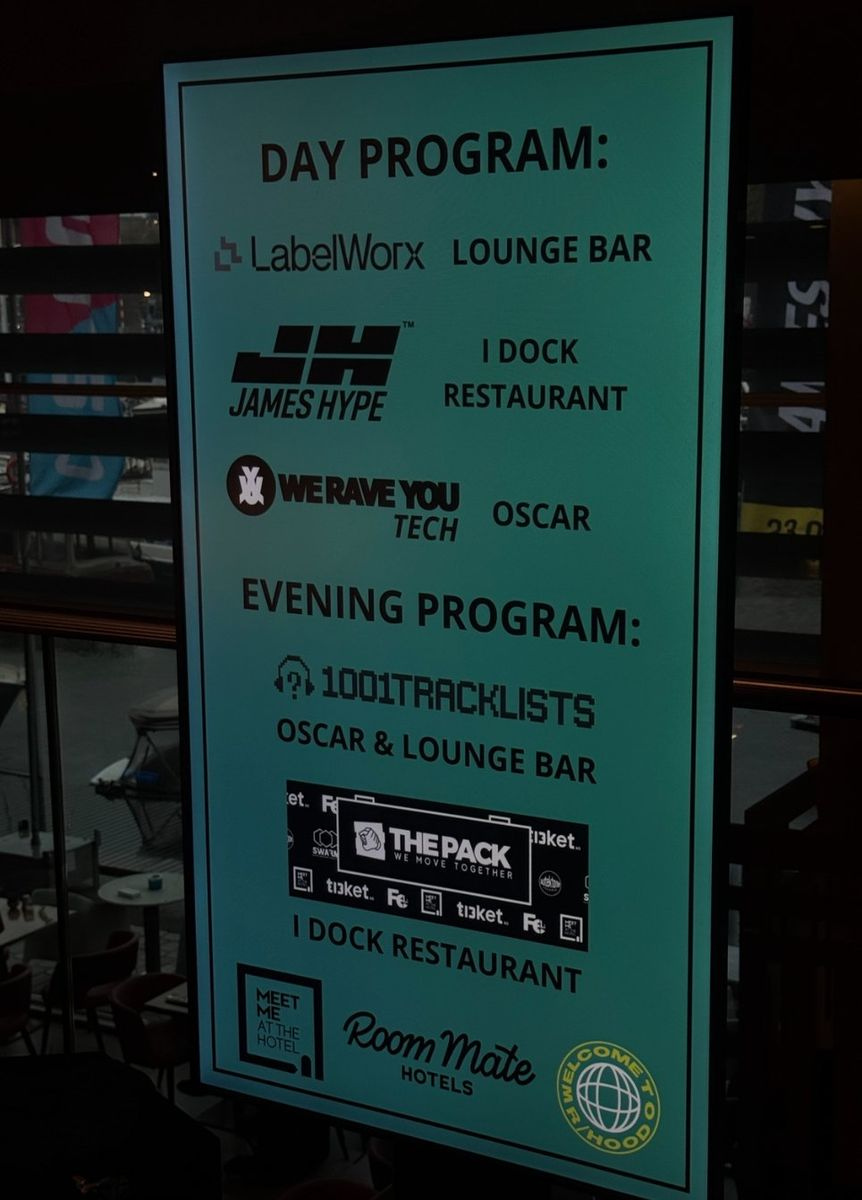
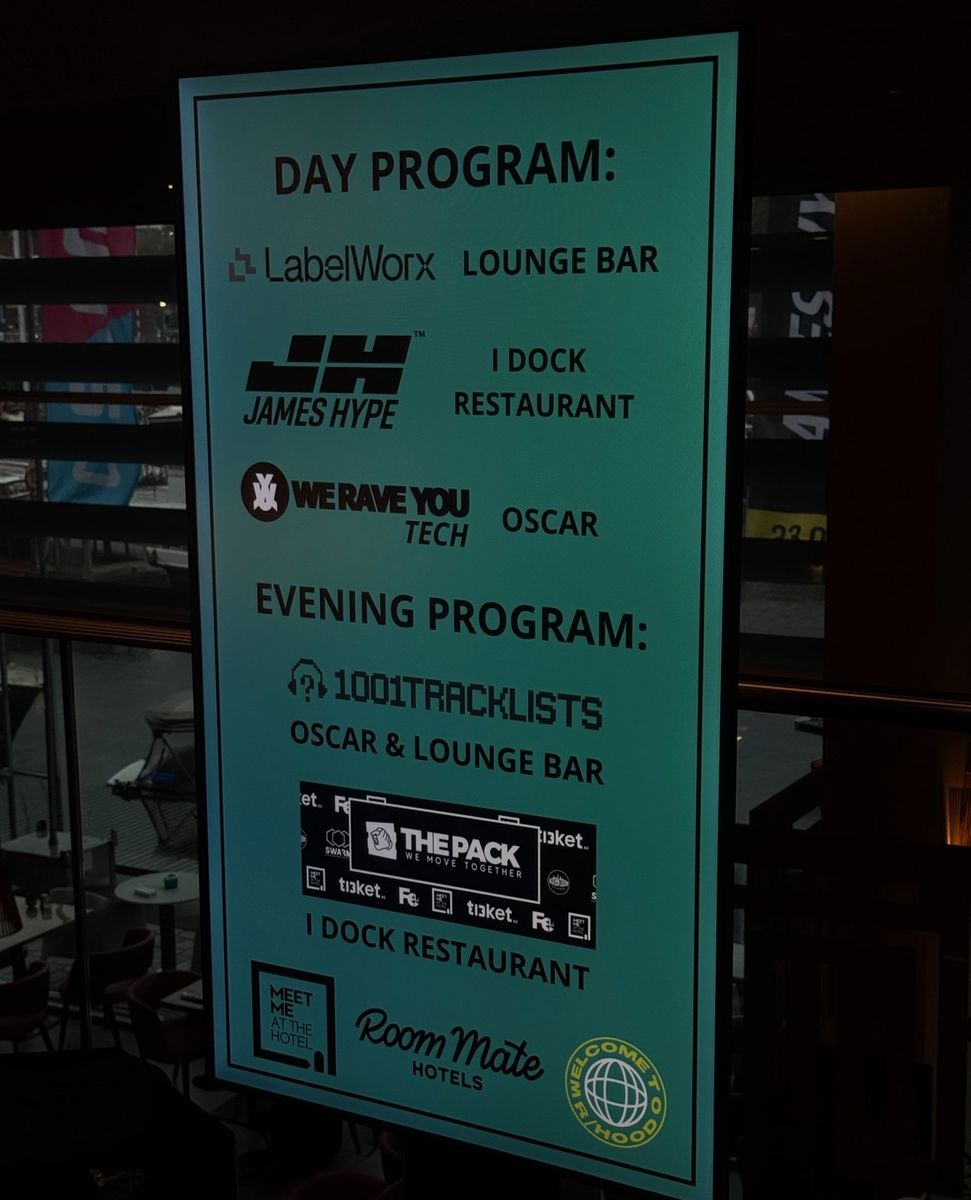
Add files via upload

diff --git a/program.html b/program.html
@@ -67,7 +67,7 @@ h4{font-size:clamp(16px,2vw,24px)}
 .tab-panel{display:none;padding:48px}
 .tab-panel.active{display:grid;grid-template-columns:1fr 1fr;gap:60px;align-items:start}
 .panel-img{position:relative;overflow:hidden}
-.panel-img img{width:100%;aspect-ratio:16/10;object-fit:cover;filter:brightness(.7) saturate(.8);display:block}
+.panel-img img{width:100%;aspect-ratio:16/10;object-fit:cover;object-position:center top;filter:brightness(.7) saturate(.8);display:block}
 .panel-img-overlay{position:absolute;inset:0;background:linear-gradient(135deg,rgba(77,168,160,.15) 0%,transparent 60%)}
 .panel-text h3{font-size:36px;margin-bottom:16px}
 .panel-text p{font-size:14px;color:var(--wd);line-height:1.8;margin-bottom:24px;font-weight:300}
@@ -185,7 +185,6 @@ h4{font-size:clamp(16px,2vw,24px)}
     <a href="experiences.html">Experiences</a>
     <a href="spaces.html">Spaces</a>
     <a href="partners.html">Partners</a>
-    <a href="merch.html">Merch</a>
     <a href="booking.html" class="nc">Book Your Stay</a>
   </div>
   <div class="hb" onclick="var nl=document.getElementById('nl');var ov=document.getElementById('nav-overlay');nl.classList.toggle('open');ov.style.display=nl.classList.contains('open')?'block':'none'">
@@ -234,7 +233,7 @@ h4{font-size:clamp(16px,2vw,24px)}
     <div class="tab-panels">
       <div class="tab-panel active" id="panel-0">
         <div class="panel-img">
-          <img src="program-day.jpg" alt="Day program — Meet Me at the Hotel">
+          <img src="program-day.jpg" alt="Day program — Meet Me at the Hotel" style="aspect-ratio:3/4;object-position:center center">
           <div class="panel-img-overlay"></div>
         </div>
         <div class="panel-text">
